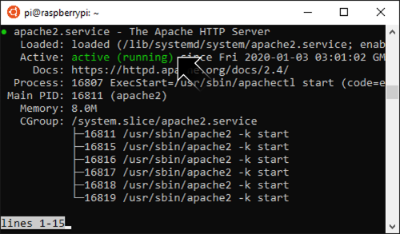
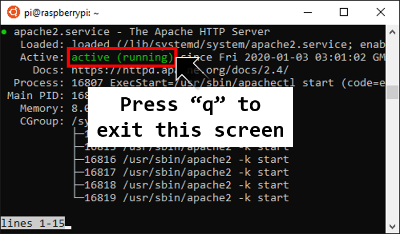
Updates to Introduction to Network Attached Storage.

diff --git a/README.md b/README.md
@@ -68,15 +68,13 @@
 
 **This tutorial will setup your Raspberry Pi Zero W as a file server that will be accessible on your home network**
 
+* Regardless of your personal data maintenance regime (backup, sharing, etc.), this tutorial is meant to reinforce IT and system administration (SysAdmin) tasks
+
 [![.img/step01a.png](.img/step01a.png)](#nolink)
 
-* Regardless of your personal data maintenance regime (backup, sharing, etc.), this tutorial is meant to reinforce IT and system administration (SysAdmin) tasks
-* Hopefully, setting up the network attached storage (NAS) service in this tutorial is useful enough for you to incorporate into your personal routine
+* Upon completing this tutorial, you will make your Pi a central file server that can sync with multiple devices
 
 [![.img/step01b.png](.img/step01b.png)](#nolink)
-
-* Upon completing this tutorial, you will make your Pi a central file server that can sync with multiple devices
-* This will not interfere with existing NAS on your network
 
 [Back to Top](#table-of-contents)
 
@@ -161,6 +159,9 @@ $ cd /var/www/html && \
 
 ### 3.3. Permissions
 
+* The "`apache2`" service must be "`active (running)`" after this set of commands
+* **Exit from the status screen by pressing "`q`"**
+
 ```
 $ sudo mkdir -p /var/www/html/nextcloud/data && \
   sudo chown www-data:www-data /var/www/html/nextcloud/data && \
@@ -170,9 +171,6 @@ $ sudo mkdir -p /var/www/html/nextcloud/data && \
   sudo service apache2 restart && \
   sudo service apache2 status
 ```
-
-* The "`apache2`" service must be "`active (running)`"
-* Exit from this screen by pressing "`q`"
 
 [![.img/step03b.png](.img/step03b.png)](#nolink)
 
@@ -193,17 +191,16 @@ $ sudo mkdir -p /var/www/html/nextcloud/data && \
    * Database password: "`password`"
    * Database name: "`nextcloud`"
    * localhost: Keep as "`localhost`"
-* Press "Finish setup"
+* Press "Finish setup" (this will take 5-10 minutes)
 
 [![.img/step04a.png](.img/step04a.png)](#nolink)
 
-* Setup processing will take 5-10 minutes
-* Once completed, you will be presented with a brief overview of Nextcloud (click right arrow to view or click the X to exit)
+* Once completed, you will be presented with a brief overview of Nextcloud (browse the overview or click X to exit)
 
 [![.img/step04b.png](.img/step04b.png)](#nolink)
 
-* Briefly explore the web-based interface to manage Nextcloud
-* Notice that you can upload and manage files through the web-based graphical user interface (GUI)
+* Briefly explore the Nextcloud's web-based interface
+* Notice that you can upload and manage files through this graphical user interface (GUI)
 * **Log out without changing any settings at this time**
 
 [![.img/step04c.png](.img/step04c.png)](#nolink)
@@ -232,22 +229,20 @@ $ sudo mkdir -p /var/www/html/nextcloud/data && \
 
 [![.img/step06a.png](.img/step06a.png)](#nolink)
 
-* Nextcloud will now attempt to authenticate with your Pi by web browser
+* Nextcloud will now attempt to authenticate with your Pi
 * Your web browser should pop up with the login page for your Nextcloud server
-* Input the administrative username and password you chose in step 4 and login
-* Choose to "Grant access"
+* Login with your username and password you chose in step 4
+* Choose "Grant access"
 
 [![.img/step06b.png](.img/step06b.png)](#nolink)
 
-* Once your client has successfully authenticated, a final setup window will appear with two important options (just leave default for now):
-   * Sync everything or selective sync
-   * Location of local synced directory
-* Nextcloud server will now sync with your local directory
+* Once your client has successfully authenticated, a final setup window will appear (leave as default for now)
+* Nextcloud server will now sync to your local directory
 
 [![.img/step06c.png](.img/step06c.png)](#nolink)
 
 * Once syncing is complete, you can use your Nextcloud directory in File Explorer just like any other normal directory (move files into/out of, delete files, etc.)
-* This directory will be seamlessly synced with your Nextcloud server
+* **This directory is seamlessly synced with your Nextcloud server**
 
 [![.img/step06d.png](.img/step06d.png)](#nolink)
 
@@ -278,6 +273,7 @@ $ sudo mkdir -p /var/www/html/nextcloud/data && \
 
 * **Backup and redundancy**: You can mirror your files on multiple devices by connecting to a common account
 * **Global access**: You can access your files anywhere in the world
+* **Buy better hardware**: Do not use the Pi Zero as your actual Nextcloud NAS; it will be painfully slow and disk drives offer more storage and reliability than micro SD
 
 [Back to Top](#table-of-contents)
 
